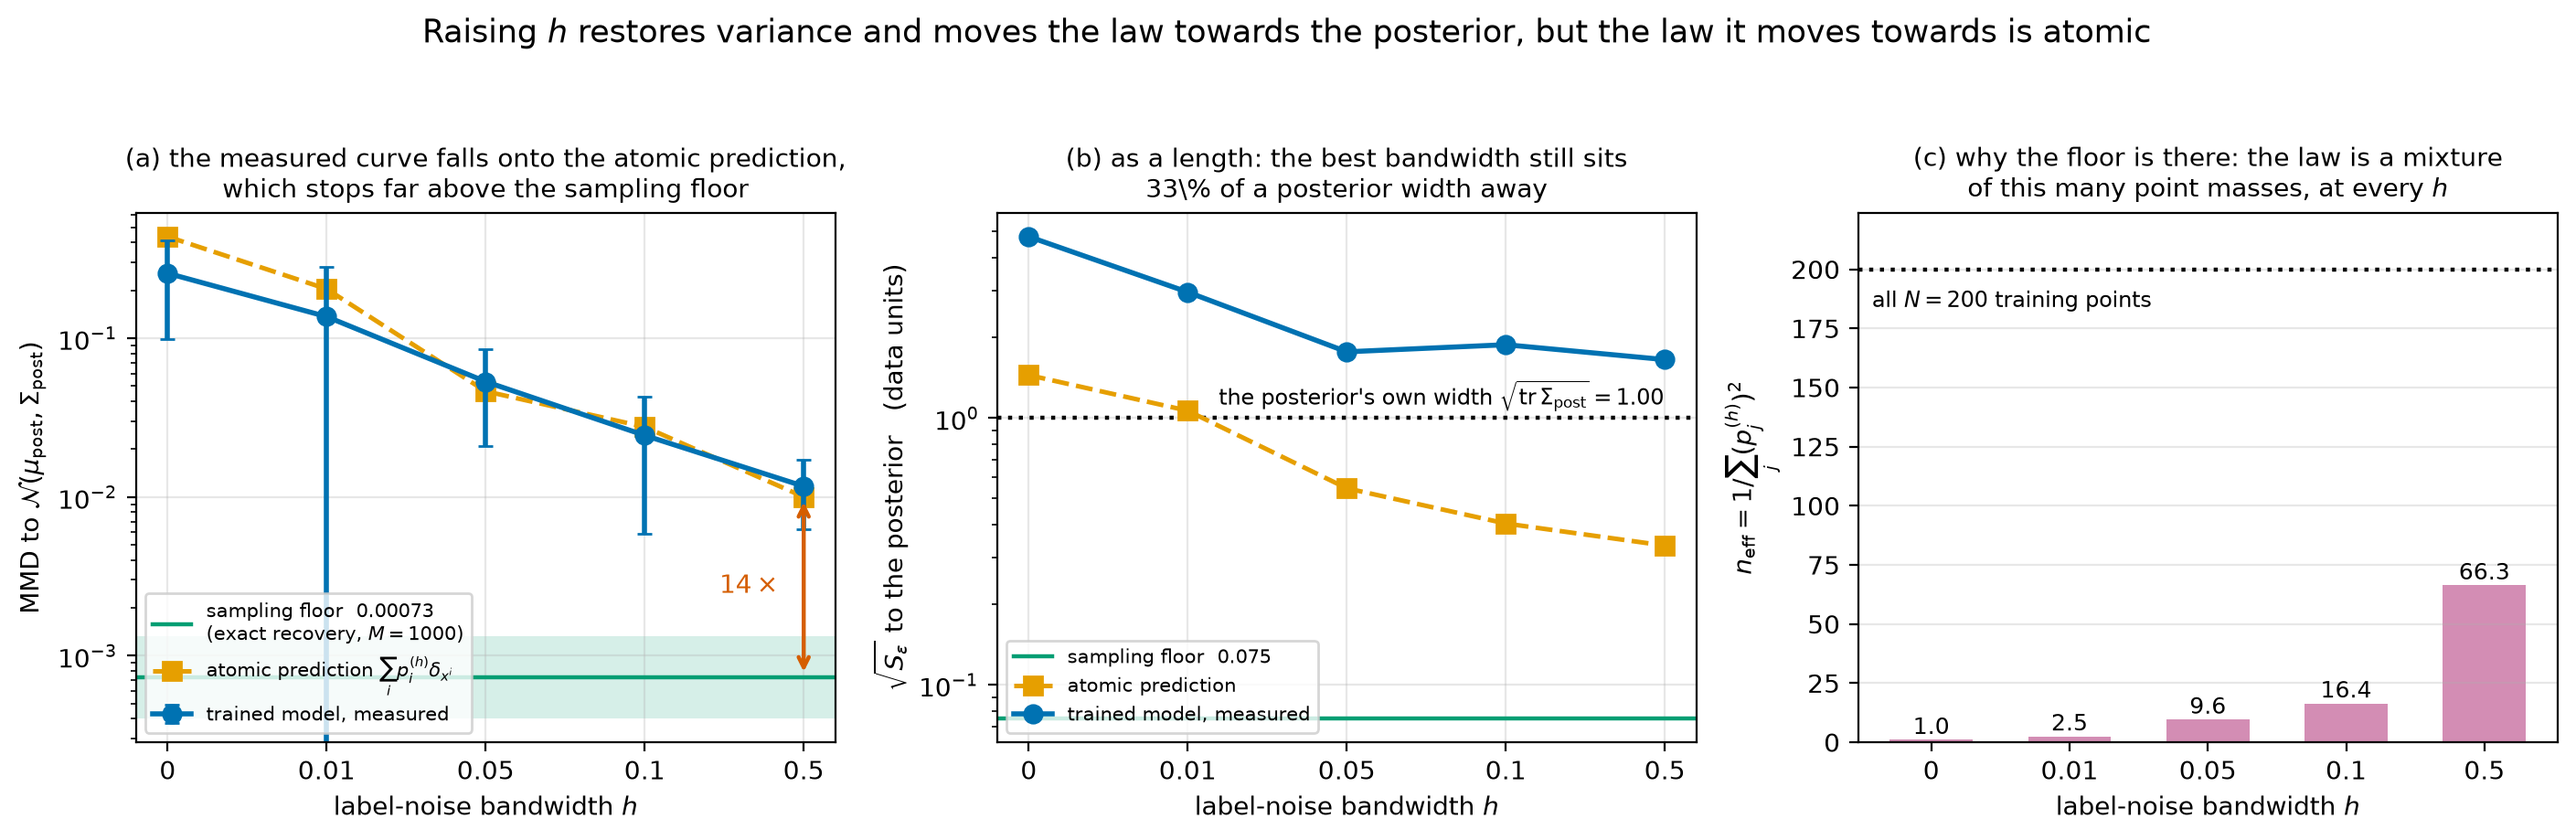
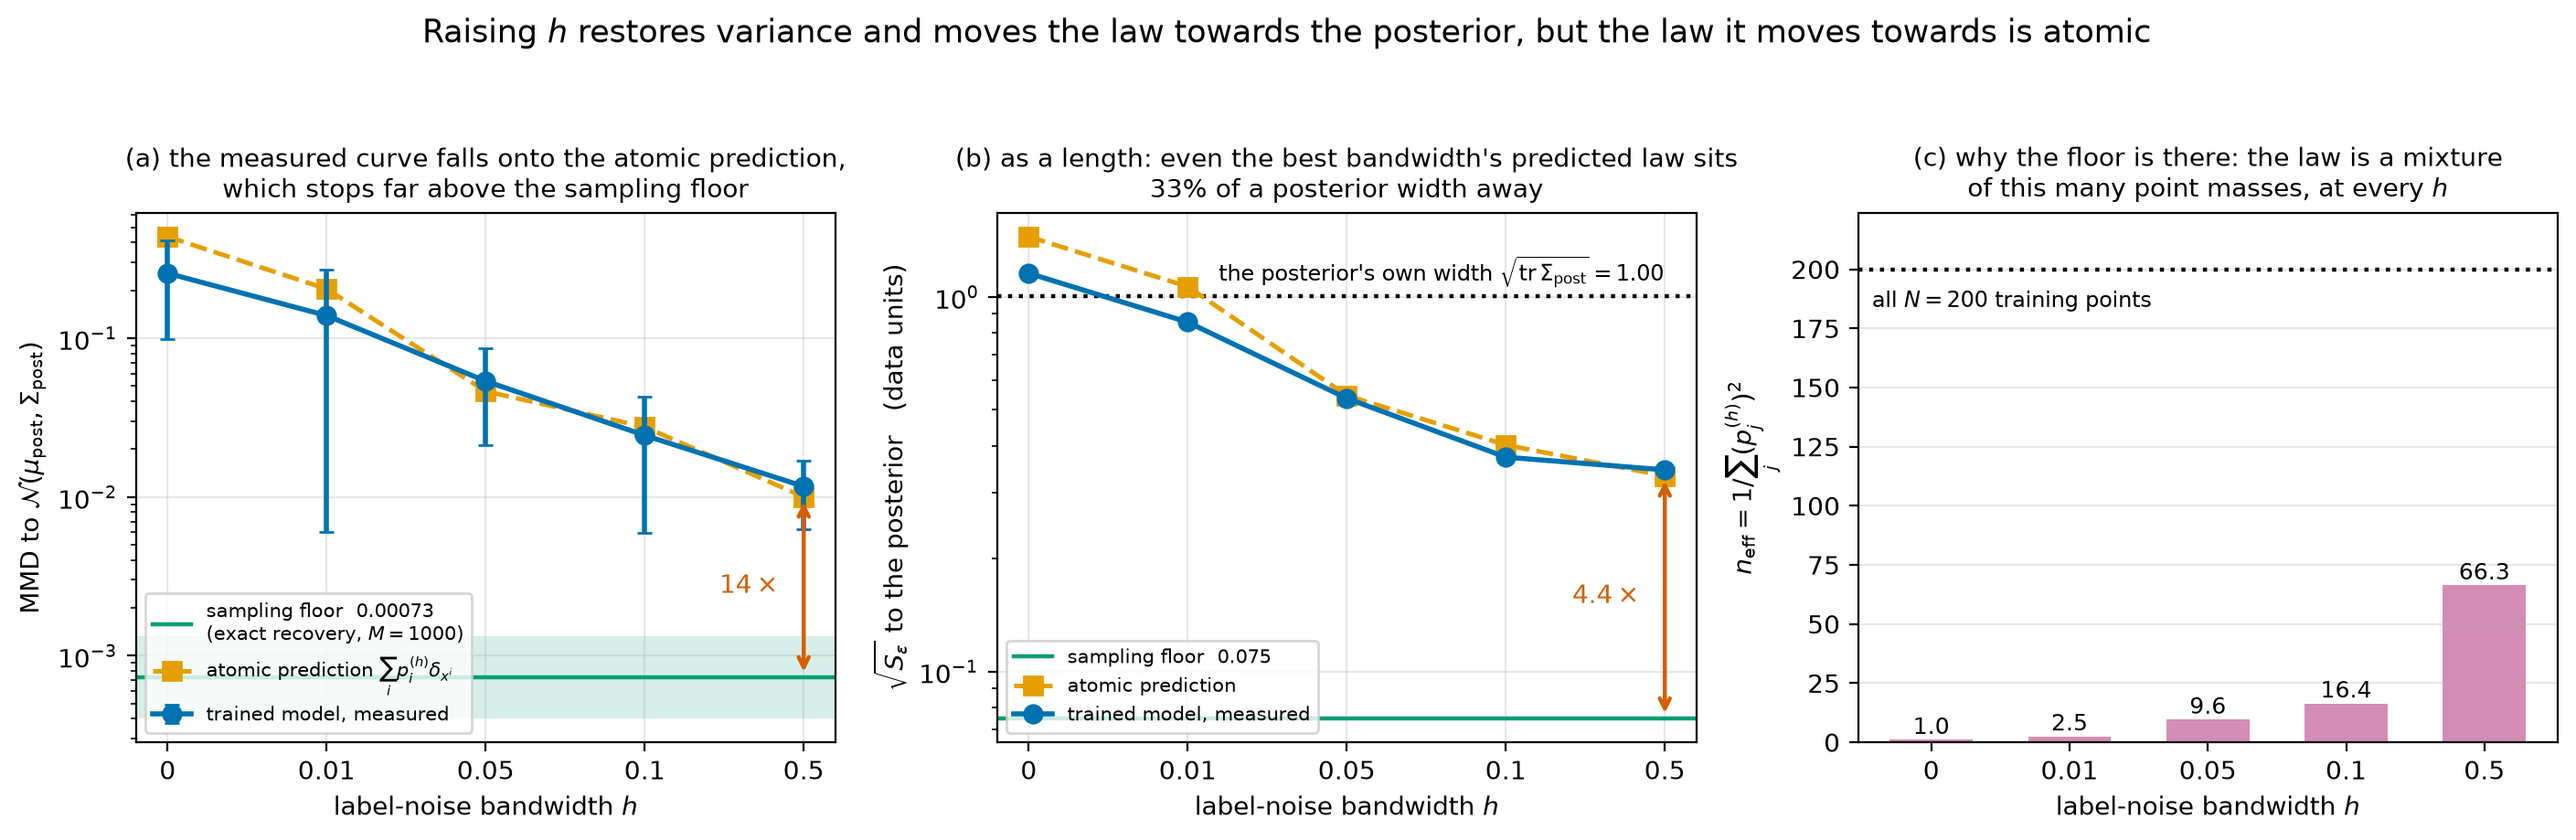
Redraw the posterior-distance figure against two computed reference scales
The old figure plotted MMD against a line at 0 and Sinkhorn against its own
minimum. Neither is a comparison: 0 is not reachable by any finite sample, and a
curve's own minimum is not a reference, so a reader could see the curves fall and
had no way to judge whether 0.012 at h=0.5 is close or far.

Two scales fix that, both computed from ground truth with no trained model in them:
the sampling floor (what the same estimator returns for two independent M=1000
draws from the SAME posterior) and the atomic prediction (the distance to
sum_i p_i^(h) delta_{x^i}, the law Theorem 10 says the model converges to). The
measured curve falls onto the prediction and the pair stop 14x above the floor in
MMD and 4.6x in W_2. Panel (b) reports W_2 rather than MMD so the number is a
length: at the best bandwidth the law sits 0.345 from a posterior 1.00 wide.
Panel (c) says why -- n_eff at most 66 of 200.

The measured OT column had to be recomputed, and the checkpoints were gone (disk
quota). rerun_exp1_posterior_ckpts.sh retrains the five runs from the same configs
and seeds; the MMD column reproduces to four decimals, which is the check that the
models are the same, and the OT column is now monotone (1.34 -> 0.119) where the
broken estimator had it plateauing near 2.7 and non-monotone.

Panel (c)'s n_eff is over this sweep's eight seed-0 conditions, not the five-seed
population Section p7 quotes; the caption says so rather than leaving 16.4 and 66.3
[…]

diff --git a/paper/main.tex b/paper/main.tex
@@ -3258,25 +3258,55 @@ optimisation-limited plateau instead.}
 \label{fig:lipschitz}
 \end{figure}
 
-(iii)~\emph{Posterior distance.} The MMD to the analytic posterior $\N(\mu_{\mathrm{post}},
-\Sigmapost)$ falls with $h$ ($0.256\to0.012$) but never reaches $0$, and the Sinkhorn
-distance plateaus near $2.7$ (Figure~\ref{fig:postdist}). An earlier version of this
-paper read that plateau as a numerical witness of the floor \eqref{eq:w2floor}. That
-reading is wrong, and Section~\ref{sec:p7} now reports the correction: the floor is
-directly computable, equals $0.0353$ here---$3.5\%$ of $\tr\Sigmapost$---and the
-population-optimal atomic law already reaches ${\rm MMD}=0.0089$, well below what the
-trained model attains. The residual MMD is therefore dominated by kernel bias and the
-optimisation gap, not by atomicity. Atomicity is real (Proposition~\ref{prop:atomicity}
-is exact) but it is not what these two curves measure.
+(iii)~\emph{Posterior distance.} Both distances to the analytic posterior
+$\N(\mu_{\mathrm{post}},\Sigmapost)$ fall monotonically with $h$---MMD
+$0.256\to0.012$, entropic OT $1.34\to0.119$---and neither approaches zero
+(Figure~\ref{fig:postdist}). Zero, however, is the wrong thing to compare against: no
+finite sample reaches it, so we compute the two scales that make the numbers readable,
+both from ground truth alone and both free of any trained model
+(\texttt{scripts/analyze\_posterior\_reference\_scales.py}). The \emph{sampling floor}
+is what the same estimators return for two independent $M{=}1000$ draws from the
+\emph{same} posterior: ${\rm MMD}=0.00073$, $\sqrt{S_\varepsilon}=0.075$. The
+\emph{atomic prediction} is the distance from the posterior to
+$\sum_ip_i^{(h)}\delta_{x^i}$, the law Theorem~\ref{thm:endpoint} says the model
+converges to. The measured curves track that prediction closely at every
+$h\ge0.05$---at $h{=}0.5$, $\sqrt{S_\varepsilon}=0.345$ measured against $0.333$
+predicted---and the prediction itself stops $4.6\times$ above the sampling floor in
+$W_2$ and $14\times$ above it in MMD. In the data's own units the best bandwidth
+leaves the generated law $0.345$ from the posterior, which is $34\%$ of the posterior's
+own width $\sqrt{\tr\Sigmapost}=1.00$.
+
+An earlier version of this paper read the OT curve's apparent plateau as a numerical
+witness of the floor \eqref{eq:w2floor}. That reading was wrong twice over. The
+numbers were produced by the Sinkhorn implementation corrected in
+Section~\ref{sec:p7}, so the plateau was an artefact; and the floor is in any case
+directly computable, equals $0.0353$ here---$3.5\%$ of $\tr\Sigmapost$---while the
+population-optimal atomic law already reaches ${\rm MMD}=0.0089$, below what the
+trained model attains. What the corrected curves do show is the claim the paper makes:
+the model converges to the atomic law the theory names, and that law does not converge
+to the posterior. Atomicity is real (Proposition~\ref{prop:atomicity} is exact); what
+these curves measure is the model arriving at it.
 
 \begin{figure}[htb]
 \centering
-\includegraphics[width=0.85\textwidth]{fig_posterior_distance.png}
-\caption{MMD (left) falls monotonically with $h$ but never reaches $0$; the Sinkhorn
-distance (right) drops sharply from $h{=}0$ and then flattens near $2.7$ (it is not
-monotone over $h\ge0.05$, varying only within $3.1$--$3.5$ there). Neither approaches
-$0$ at any $h$---the $h$-independent atomicity floor of
-Proposition~\ref{prop:atomicity}.}
+\includegraphics[width=\textwidth]{fig_posterior_distance.png}
+\caption{Distance to the true posterior, against the two scales that make it
+readable. \textbf{(a)} MMD. The \emph{sampling floor} (green) is what the same
+estimator returns for two independent $M{=}1000$ draws from the same posterior---the
+bottom of the axis in practice, since $0$ is not reachable at finite $M$. The
+\emph{atomic prediction} (orange) is the distance to $\sum_ip_i^{(h)}\delta_{x^i}$,
+the law Theorem~\ref{thm:endpoint} names; it is where the theory puts the model, not
+an artefact of the estimator. The measured curve falls onto it and the pair stop
+$14\times$ above the floor. \textbf{(b)} the same in $W_2$ units, so the numbers are
+lengths in the data's own scale: at the best bandwidth the law sits $0.345$ from a
+posterior $1.00$ wide, $4.6\times$ the floor. \textbf{(c)} why: $n_{\mathrm{eff}}$,
+the number of training atoms the mixture actually uses, is at most $66$ of $200$---the
+law is a finite mixture of point masses at every $h$, which is
+Proposition~\ref{prop:atomicity}. Panel (c) is over the eight conditions of this
+sweep, all from seed $0$, so that it describes the same measurements as (a) and (b);
+the five-seed averages quoted in Section~\ref{sec:p7} ($26$ and $102$) are larger and
+make the same point with more of the label space. Raising $h$ moves the model towards the posterior;
+the thing it moves towards is atomic.}
 \label{fig:postdist}
 \end{figure}
 

diff --git a/scripts/make_posterior_distance_figure.py b/scripts/make_posterior_distance_figure.py
@@ -105,6 +105,13 @@ def main() -> None:
     ax.set_yscale("log")
     ax.set_xticks(x); ax.set_xticklabels(labels)
     ax.set_xlabel(r"label-noise bandwidth $h$")
+    gap_w = float(w_atom.iloc[-1] / w_floor)
+    ax.annotate("", xy=(len(x) - 1, w_floor), xytext=(len(x) - 1, w_atom.iloc[-1]),
+                arrowprops=dict(arrowstyle="<->", lw=1.6, color=OI["vermillion"]))
+    ax.annotate(f"${gap_w:.1f}\\times$",
+                xy=(len(x) - 1, np.sqrt(w_floor * w_atom.iloc[-1])),
+                xytext=(-8, 0), textcoords="offset points", ha="right", va="center",
+                fontsize=10, color=OI["vermillion"])
     ax.set_ylabel(r"$\sqrt{S_\varepsilon}$ to the posterior   (data units)")
     ax.set_title("(b) as a length: even the best bandwidth's predicted law sits\n"
                  f"{w_atom.iloc[-1] / post_sd * 100:.0f}% of a posterior width away",
